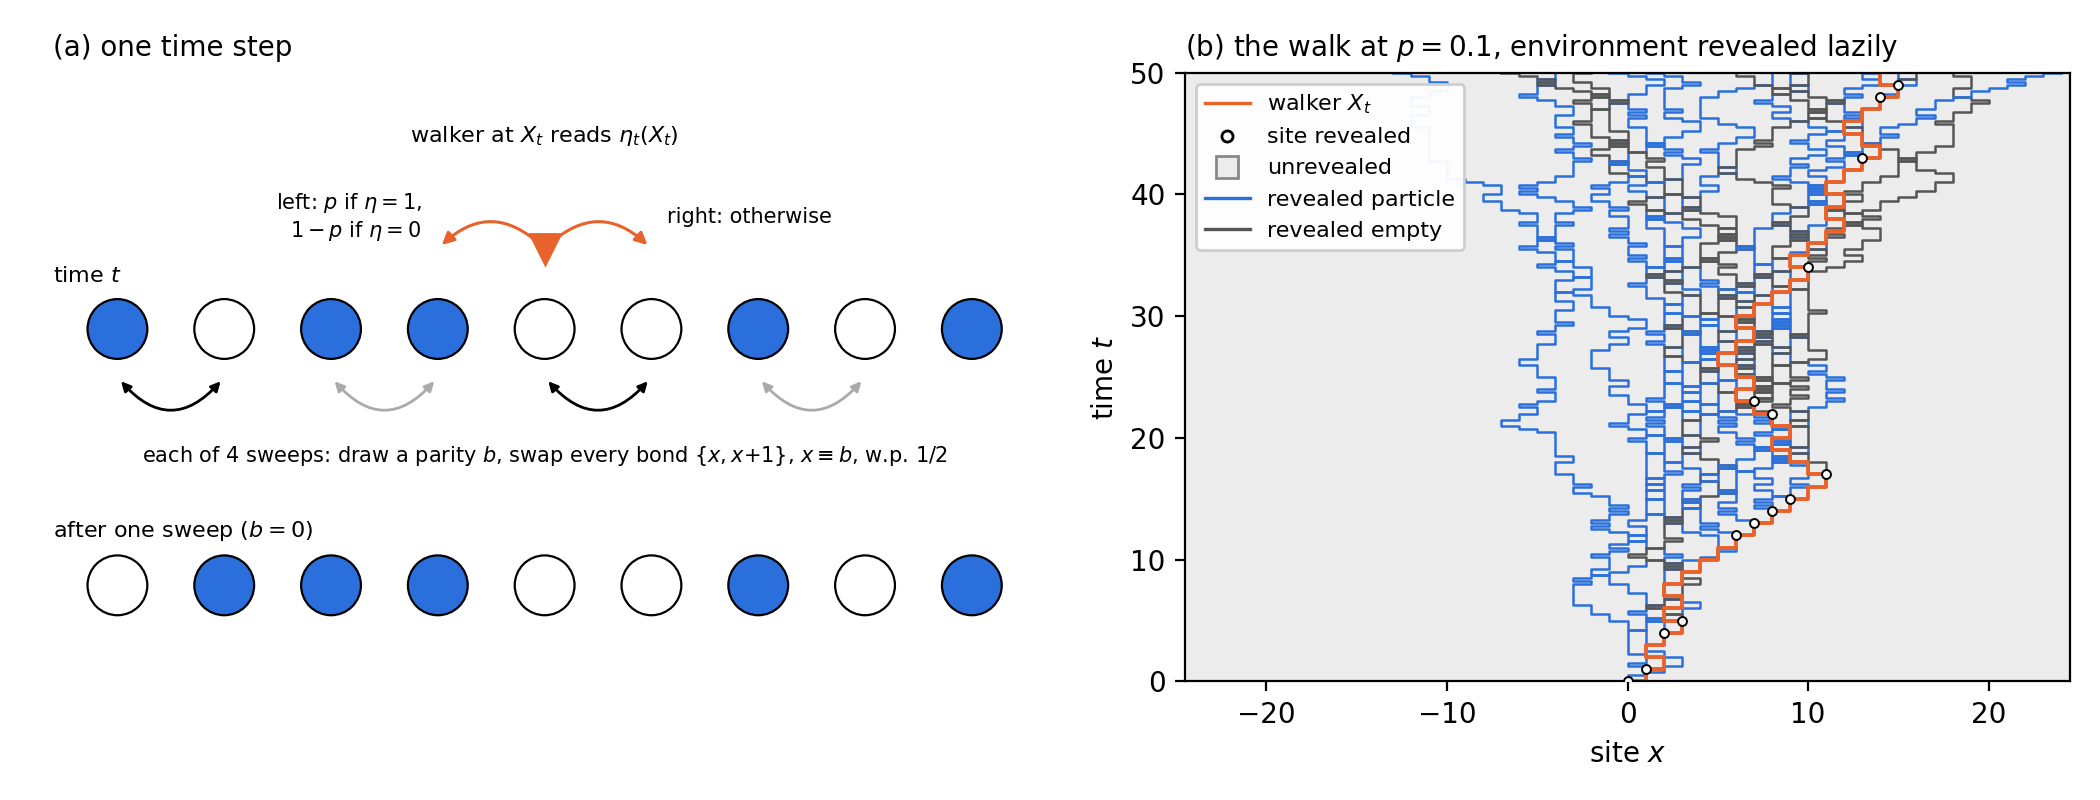
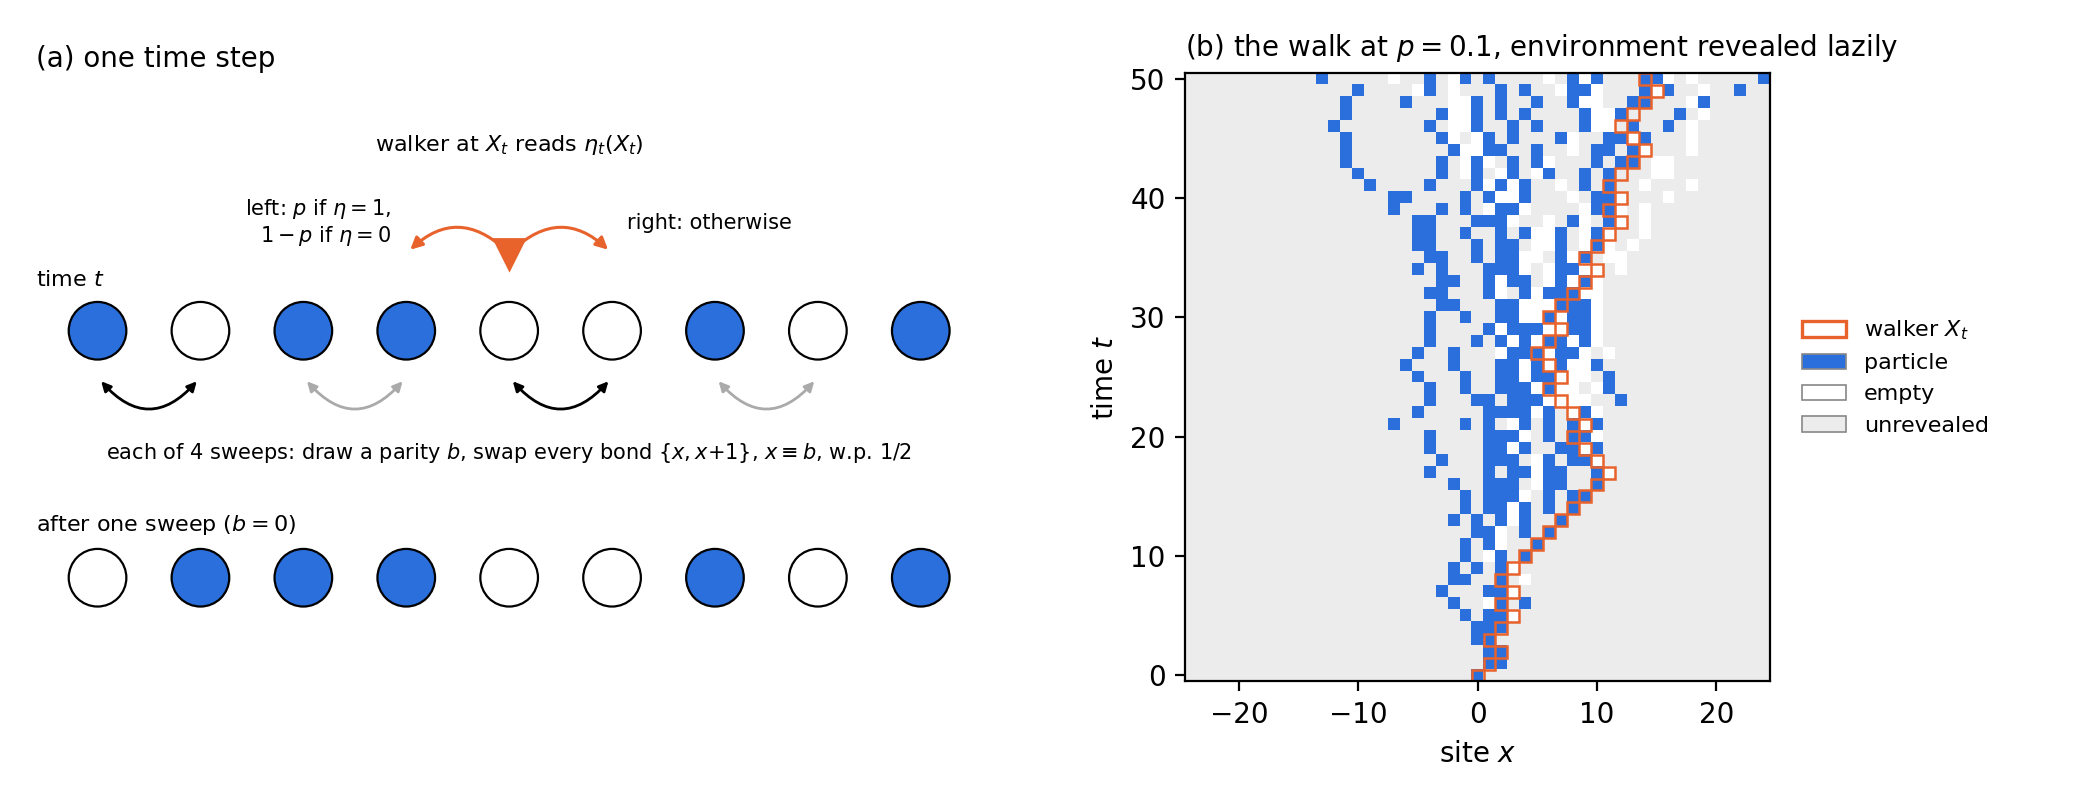
draw the RWRE figure as squares, one row per step
Back to the original grid of site squares (user's preference), with the
walker's site outlined in red instead of a path line; the per-sweep reveal
and one-site-per-sweep assertions stay.

diff --git a/experiments/50_rwre_lazy_long_omega/plot_dynamics.py b/experiments/50_rwre_lazy_long_omega/plot_dynamics.py
@@ -7,16 +7,15 @@
 (b) A space-time diagram of a short walk drawn by exactly those rules, with the
     environment revealed lazily as in the article: a site is drawn Bernoulli(1/2)
     only the first time the walker reads it, and the walker reads it only when its
-    uniform u falls between min(p, 1-p) and max(p, 1-p). Occupied, empty and
-    still-unrevealed sites are shaded differently, and the walker's path is drawn on top.
+    uniform u falls between min(p, 1-p) and max(p, 1-p). Each site is a square,
+    shaded occupied, empty or still unrevealed, and the walker's site is outlined.
 
-    One row per SWEEP, not per walker step (user, 2026-11-10): with 4 sweeps a step,
-    rows per step showed revealed states jumping up to 4 sites and seemingly
-    appearing away from the walker. Per sweep, a revealed state moves at most one
-    site between rows, and every reveal is marked where the walker read it. The
-    walker's path is a staircase: read and jump at integer t, then the sweeps.
-    `simulate` asserts both rules (a new revealed cell appears only at a read, at
-    the walker's site; a revealed state moves at most one site per sweep).
+    One row per walker step, as the walker reads it (user, 2026-11-10, after trying
+    one row per sweep with tracks of the revealed states: the squares read better).
+    So a revealed state can move up to 4 sites between rows, one per sweep, and a
+    reveal happens only inside the outlined square. `simulate` asserts both rules
+    on every sweep (a new revealed cell appears only at a read, at the walker's
+    site; a revealed state moves at most one site per sweep).
 
 An illustration, not a measurement: drawn on the CPU on a window wide enough that
 nothing revealed reaches its edge, not by the GPU sampler, and nothing is estimated.
@@ -40,7 +39,8 @@ import matplotlib
 matplotlib.use("Agg")
 import matplotlib.pyplot as plt  # noqa: E402
 import numpy as np  # noqa: E402
-from matplotlib.patches import Circle, FancyArrowPatch  # noqa: E402
+from matplotlib.colors import ListedColormap  # noqa: E402
+from matplotlib.patches import Circle, FancyArrowPatch, Rectangle  # noqa: E402
 
 EXP = Path(__file__).resolve().parent
 ROOT = EXP.parents[1]
@@ -49,20 +49,18 @@ WALKER = "#e8622c"
 PARTICLE = "#2a6fdb"
 EMPTY = "#ffffff"
 HIDDEN = "#ececec"
-TRACK_EMPTY = "#555555"
 SWEEPS = 4
 UNREVEALED, HOLE, PART = -1, 0, 1
 
 
 def simulate(p: float, steps: int, rng: np.random.Generator
-             ) -> tuple[np.ndarray, np.ndarray, list[tuple[int, int]], list[np.ndarray]]:
-    """(environment rows, walker positions, reveals, tracks), on a centred window.
+             ) -> tuple[np.ndarray, np.ndarray, list[tuple[int, int]]]:
+    """(environment rows, walker positions, reveals), on a centred window.
 
     rows[SWEEPS * t + s] is the environment after s sweeps of step t (s = 0: what
     the walker reads at time t); the last row is time `steps`. Rows hold -1
     (unrevealed), 0 (empty), 1 (particle). positions[t] = X_t, t = 0..steps.
-    reveals lists (t, X_t) for each read of an unrevealed site; tracks[j] is the
-    site of the j-th revealed state in every row from its reveal on. The window has
+    reveals lists (t, X_t) for each read of an unrevealed site. The window has
     2*W+1 sites with W = 4*steps: the walker moves at most `steps`, and a revealed
     state moves at most one site per sweep, so nothing revealed reaches the edge.
     """
@@ -72,7 +70,7 @@ def simulate(p: float, steps: int, rng: np.random.Generator
     ident = np.full(eta.size, -1, dtype=np.int64)
     x = w
     lo, hi = min(p, 1 - p), max(p, 1 - p)
-    rows, pos, reveals, where = [], [x], [], []
+    rows, pos, reveals = [], [x], []
     for t in range(steps):
         rows.append(eta.copy())
         u = rng.random()
@@ -87,7 +85,6 @@ def simulate(p: float, steps: int, rng: np.random.Generator
                 reveals.append((t, x - w))
                 rows[-1][x] = eta[x]           # revealed at the read, drawn there
             left = u < (p if eta[x] == PART else 1 - p)
-        where.append(_where(ident, len(reveals)) - w)
         x += -1 if left else 1
         for s in range(SWEEPS):
             where_before = _where(ident, len(reveals))
@@ -100,15 +97,11 @@ def simulate(p: float, steps: int, rng: np.random.Generator
                 "a revealed state moved more than one site in a sweep"
             if s < SWEEPS - 1:
                 rows.append(eta.copy())
-                where.append(_where(ident, len(reveals)) - w)
         pos.append(x)
     rows.append(eta.copy())
-    where.append(_where(ident, len(reveals)) - w)
     rows = np.array(rows)
     _check_reveals(rows, reveals, w)
-    tracks = [np.array([wr[j] for wr in where[SWEEPS * t:]])
-              for j, (t, _) in enumerate(reveals)]
-    return rows, np.array(pos) - w, reveals, tracks
+    return rows, np.array(pos) - w, reveals
 
 
 def _where(ident: np.ndarray, count: int) -> np.ndarray:
@@ -200,7 +193,7 @@ def main() -> None:
     if args.check:
         check_law(args.p, args.steps, args.check, args.seed + 1)
 
-    rows, pos, reveals, tracks = simulate(args.p, args.steps, np.random.default_rng(args.seed))
+    rows, pos, reveals = simulate(args.p, args.steps, np.random.default_rng(args.seed))
     w = (rows.shape[1] - 1) // 2
     h = args.half_width
     assert np.all(rows[:, :w - h] == UNREVEALED) and np.all(rows[:, w + h + 1:] == UNREVEALED), \
@@ -210,43 +203,30 @@ def main() -> None:
                                gridspec_kw={"width_ratios": [1.15, 1]})
     schematic(a)
     a.set_title("(a) one time step", fontsize=10, loc="left")
-    # Each revealed state is drawn as its own track, one segment per sweep, from
-    # the walker's read on; every site off the tracks is unrevealed.
-    b.set_facecolor(HIDDEN)
-    for (t0, _), tr in zip(reveals, tracks):
-        y = t0 + np.arange(tr.size + 1) / SWEEPS
-        y[-1] = args.steps                     # the last row is time `steps` itself
-        value = rows[SWEEPS * t0, tr[0] + w]
-        b.plot(np.repeat(tr, 2), np.repeat(y, 2)[1:-1], lw=0.9,
-               color=PARTICLE if value == PART else TRACK_EMPTY)
-    # staircase: read and jump at integer t, then the sweeps with the walker still
-    t = np.arange(args.steps + 1)
-    sx = np.repeat(pos, 2)[1:]
-    sy = np.repeat(t, 2)[:-1]
-    b.plot(sx, sy, color=WALKER, lw=1.4, zorder=2)
-    rt, rx = np.array(reveals).T
-    b.plot(rx, rt, ls="", marker="o", ms=3.2, mfc="white", mec="black", mew=0.7,
-           zorder=3)
-    b.set_xlim(-h - 0.5, h + 0.5)
-    b.set_ylim(0, args.steps)
+    # Row t: the environment the walker reads at time t (its reveal included);
+    # the last row is time `steps`, after the last sweeps.
+    view = rows[::SWEEPS, w - h:w + h + 1]
+    b.imshow(view + 1, cmap=ListedColormap([HIDDEN, EMPTY, PARTICLE]), vmin=0, vmax=2,
+             origin="lower", aspect="equal", interpolation="nearest",
+             extent=(-h - 0.5, h + 0.5, -0.5, args.steps + 0.5))
+    for t, x in enumerate(pos):
+        b.add_patch(Rectangle((x - 0.5, t - 0.5), 1, 1, facecolor="none",
+                              edgecolor=WALKER, lw=0.9))
     b.set_xlabel("site $x$")
     b.set_ylabel("time $t$")
     b.set_title(f"(b) the walk at $p = {args.p:g}$, environment revealed lazily",
                 fontsize=10, loc="left")
-    handles = [plt.Line2D([], [], color=WALKER, lw=1.2, label="walker $X_t$"),
-               plt.Line2D([], [], ls="", marker="o", ms=4, mfc="none", mec="black",
-                          label="site revealed")] + [
-        plt.Line2D([], [], marker="s", ls="", ms=8, markerfacecolor=c,
-                   markeredgecolor="#888888", label=lab)
-        for c, lab in ((HIDDEN, "unrevealed"),)] + [
-        plt.Line2D([], [], color=c, lw=1.2, label=lab)
-        for c, lab in ((PARTICLE, "revealed particle"), (TRACK_EMPTY, "revealed empty"))]
-    b.legend(handles=handles, fontsize=8, loc="upper left", framealpha=0.95)
+    handles = [Rectangle((0, 0), 1, 1, facecolor="none", edgecolor=WALKER, lw=1.2,
+                         label="walker $X_t$")] + [
+        Rectangle((0, 0), 1, 1, facecolor=c, edgecolor="#888888", lw=0.6, label=lab)
+        for c, lab in ((PARTICLE, "particle"), (EMPTY, "empty"), (HIDDEN, "unrevealed"))]
+    b.legend(handles=handles, fontsize=8, loc="center left", bbox_to_anchor=(1.02, 0.5),
+             frameon=False)
     fig.tight_layout()
     for ext in ("pdf", "png"):
         fig.savefig(args.out / f"rwre_dynamics.{ext}", dpi=200)
     print(f"wrote {args.out}/rwre_dynamics.pdf/.png  (seed {args.seed}, p {args.p}, "
-          f"{args.steps} steps, {SWEEPS} rows per step; {len(reveals)} reveals; "
+          f"{args.steps} steps; {len(reveals)} reveals; "
           f"walker ends at {pos[-1]})")
 
 
